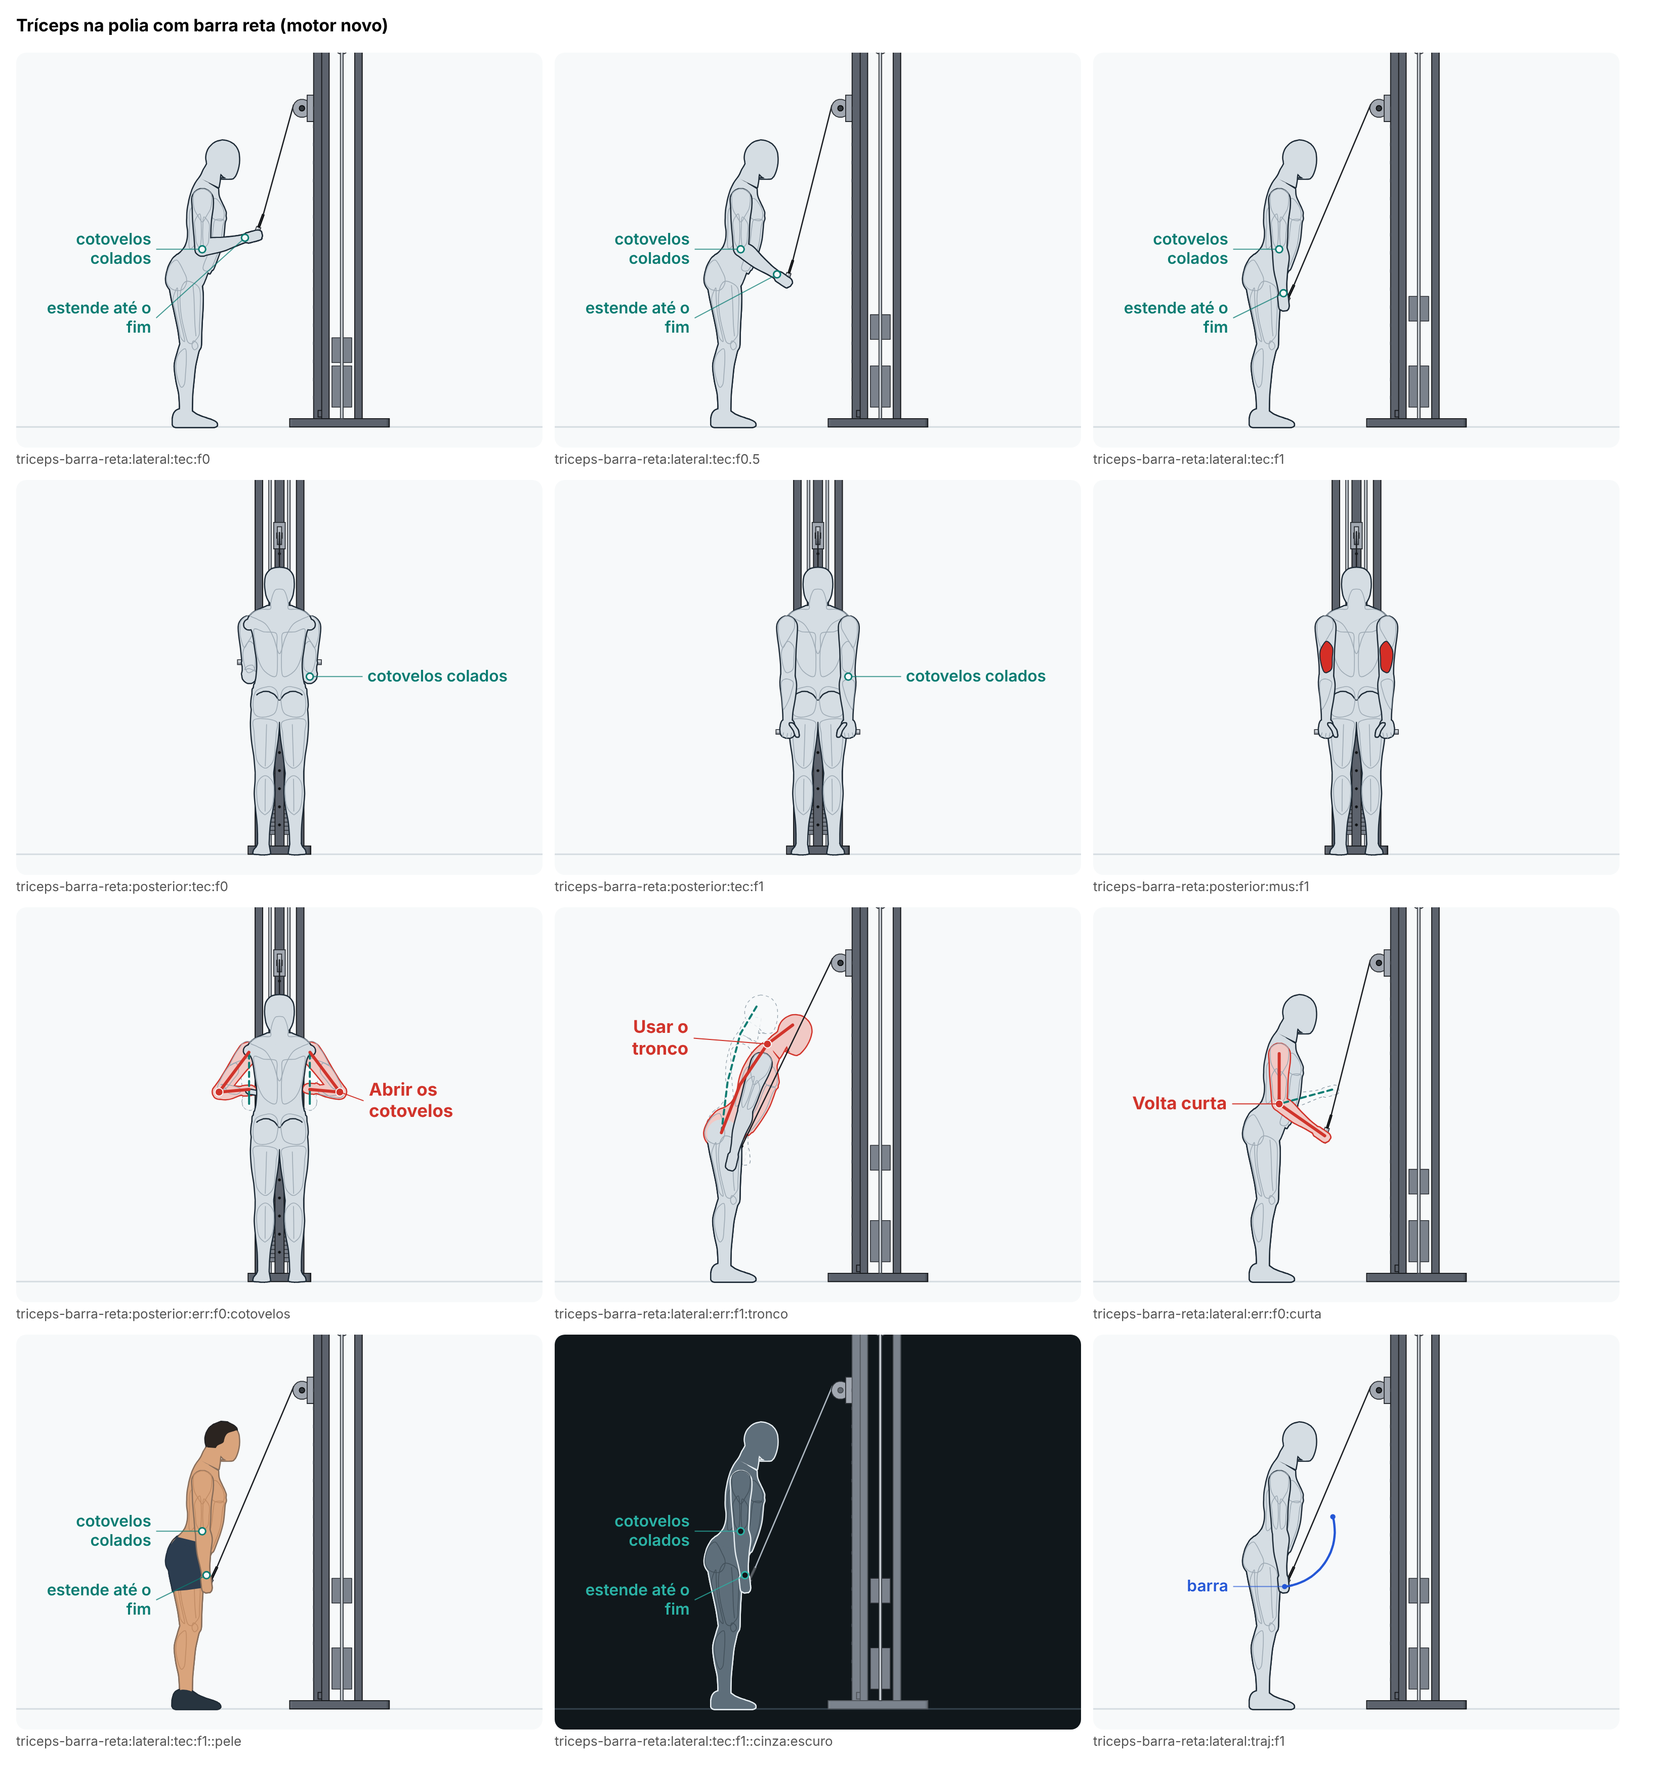
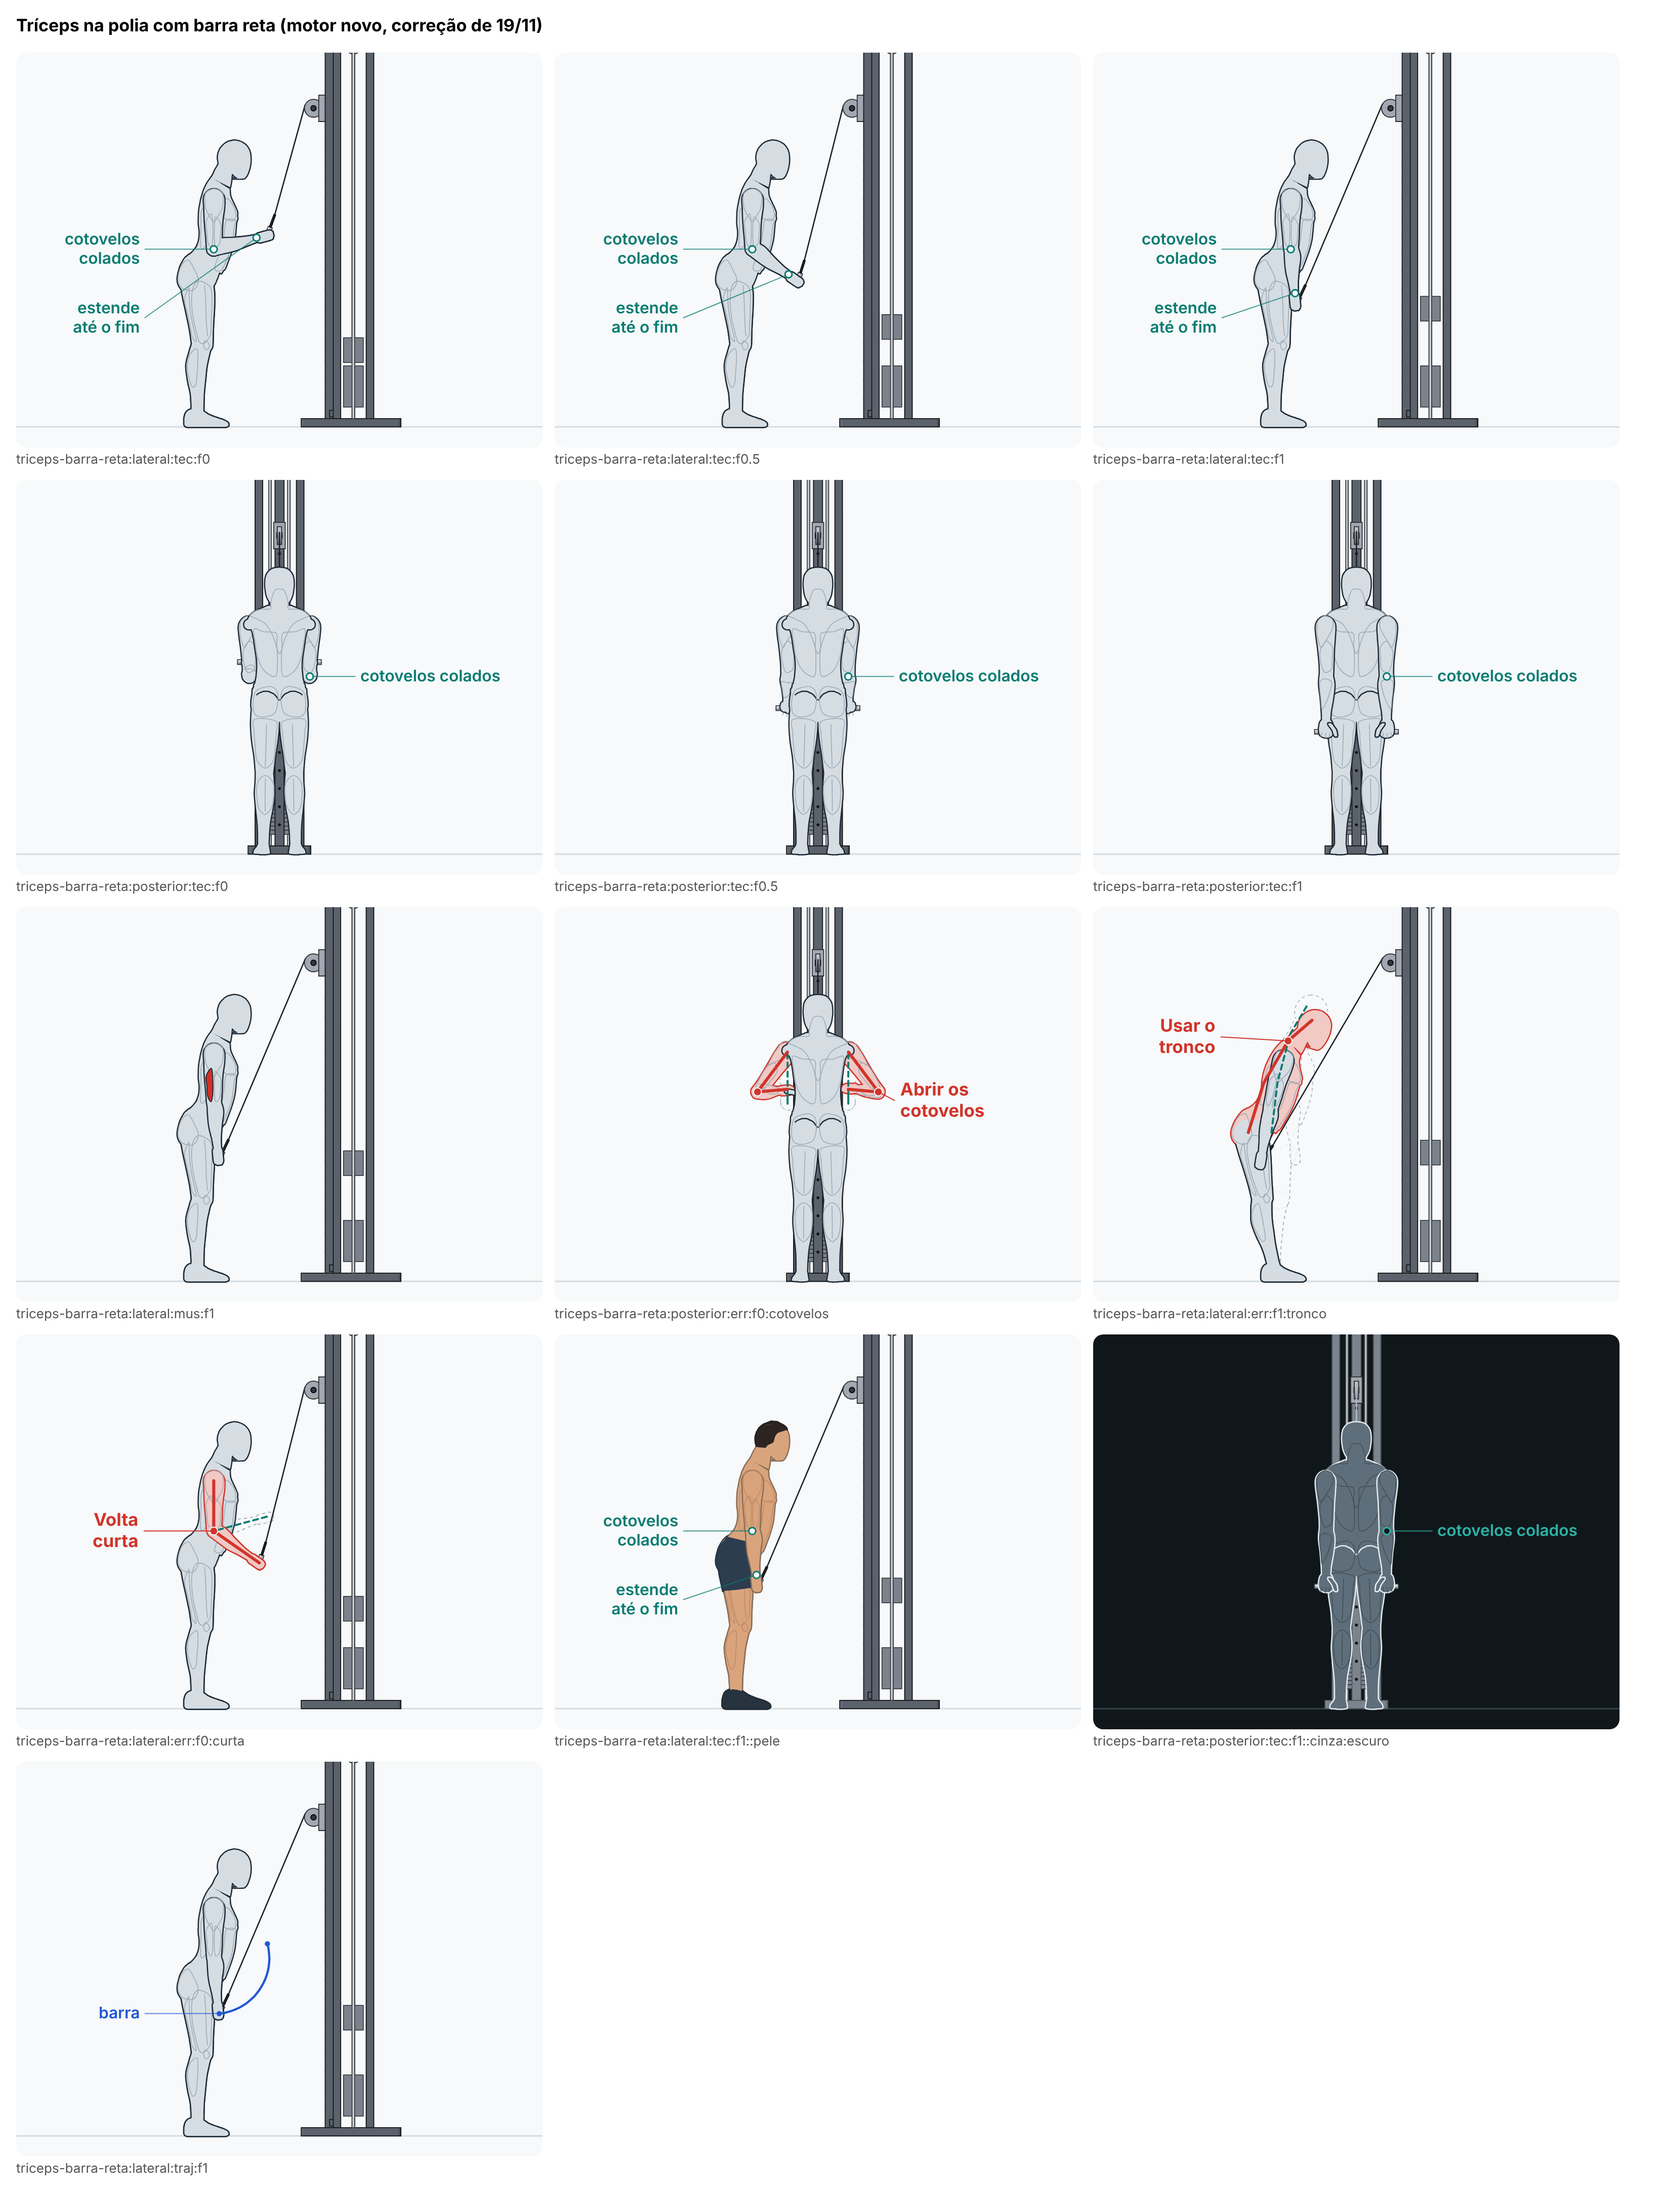
Tríceps com barra reta: no erro "Usar o tronco", o cabo não atravessa a cabeça (auditoria M6)
O erro debruçava o tronco 34° com o quadril parado, e a cabeça e o peito
entravam na linha do cabo (até 8,8 cm na cabeça). Agora o tronco debruça 30° e
o quadril vai 14 cm para trás (linha nova da ficha, `erro.tronco.quadrilAtras`):
a cabeça e o peito ficam atrás do cabo, que passa a 0,6 cm do peito.

Regra comum `cabos-fora-do-corpo-nos-erros` ligada nesta ficha: em cada erro,
em seis instantes, cada cabo e fita do engate contra o corpo inteiro (fora as
mãos que seguram), até 0,5 cm. Falha no estado antigo, passa no novo.

Claude-Session: https://claude.ai/code/session_01YRzts8DBGbsca9onebcMt1

diff --git a/src/engine/novo/exercicios/triceps-barra-reta.ts b/src/engine/novo/exercicios/triceps-barra-reta.ts
@@ -40,9 +40,9 @@ function pelveParaInclinar(corpo: Corpo, inclina: number, toracica: number): num
   }, -30, 70, 30);
 }
 
-function troncoEPernas(corpo: Corpo, pelveY: number, frente: number, toracica: number): { t: Tronco; pernas: Record<Lado, PosePerna> } {
+function troncoEPernas(corpo: Corpo, pelveY: number, frente: number, toracica: number, atras = 0): { t: Tronco; pernas: Record<Lado, PosePerna> } {
   const w = f('pes.meiaDistancia');
-  const t = resolverTronco(corpo, { pelve: [0, pelveY, f('pelve.z')], frente, toracica, cervical: f('cervical'), cabeca: f('cabeca') });
+  const t = resolverTronco(corpo, { pelve: [0, pelveY, f('pelve.z') - atras], frente, toracica, cervical: f('cervical'), cabeca: f('cabeca') });
   const perna = (k: Lado): PosePerna => ({ pe: { bola: [sinal(k) * w, 0, f('pe.z')], dir: [sinal(k) * 0.12, 0, 1], calc: 0 }, polo: [sinal(k) * 0.1, 0, 1] });
   return { t, pernas: { R: perna('R'), L: perna('L') } };
 }
@@ -99,13 +99,15 @@ function pedido(c: Pick<Calibrado, 'cotBaixo'>, u: number, erro?: string) {
     cotovelo: mix(alto, c.cotBaixo, u),
     inclina: erro === 'tronco' ? mix(f('tronco.inclinacao'), f('erro.tronco.inclinacao'), u) : f('tronco.inclinacao'),
     toracica: erro === 'tronco' ? u * f('erro.tronco.toracica') : 0,
+    // ao debruçar, o quadril vai para trás e a cabeça fica atrás do cabo (até 19/11 o cabo atravessava a cabeça)
+    atras: erro === 'tronco' ? u * f('erro.tronco.quadrilAtras') : 0,
   };
 }
 
 function montar(corpo: Corpo, c: Pick<Calibrado, 'pelveY' | 'frente' | 'cotBaixo'>, u: number, erro?: string): Esq {
   const p = pedido(c, u, erro);
   const frente = erro === 'tronco' ? pelveParaInclinar(corpo, p.inclina, p.toracica) : c.frente;
-  const { t, pernas } = troncoEPernas(corpo, c.pelveY, frente, p.toracica);
+  const { t, pernas } = troncoEPernas(corpo, c.pelveY, frente, p.toracica, p.atras);
   const certo = resolverMembros(t, bracos(t, p.cotovelo), pernas);
   if (erro !== 'cotovelos') return certo;
   // os cotovelos abrem: as mãos seguem na barra, no mesmo caminho, e o cotovelo gira para fora em volta da linha do

diff --git a/docs/revisoes/animacao-nova/lote-A5/triceps-barra-reta.md b/docs/revisoes/animacao-nova/lote-A5/triceps-barra-reta.md
@@ -55,3 +55,30 @@ Não há correção registrada para este exercício. Vale a da rosca na polia (0
 - **O rótulo "estende até o fim"** (no punho) tem o fio cruzando o antebraço no quadro de cima, porque o lado da torre não tem espaço e os dois textos ficam à esquerda; o mesmo acontece no "só o antebraço se mexe" da rosca na polia aprovada. Tentei pôr o texto acima do corpo: o quadro abria até mostrar a coluna inteira e o fio cruzava a cabeça.
 - **De trás, a barra não aparece** no quadro de cima (fica atrás do corpo). O erro de abrir os cotovelos se lê pelos braços.
 - **A força do cabo não entra no equilíbrio**, como em todas as animações na polia.
+
+## Correção de 19/11 (auditoria)
+
+A auditoria das fases A e B (M6) achou que, no erro "Usar o tronco", de lado, o cabo atravessa a cabeça (7,8 cm) e o tronco (3,7 cm). A animação saiu da aprovação até a correção.
+
+**A causa.** O erro debruçava o tronco até 34° com o quadril parado: a cabeça e o peito iam à frente, para dentro da linha do cabo, que continua reto da barra à roldana, no alto e à frente.
+
+**A mudança** (só no erro, dentro do que a ficha diz: "o tronco debruça sobre a barra enquanto as mãos descem"):
+
+1. O tronco debruça até 30° (era 34°; `erro.tronco.inclinacao`).
+2. Linha nova da ficha, `erro.tronco.quadrilAtras` (14 cm, selo desenho): ao debruçar, o quadril vai para trás (os pés parados), como quem se apoia na barra; a cabeça e o peito ficam atrás do cabo.
+
+**A regra nova** (comum, `cabos-fora-do-corpo-nos-erros`, em `regras/vistas-do-guia.ts`, ligada só nas fichas do tríceps com barra reta, da puxada com barra reta e da rosca de costas): em cada erro, em 6 instantes (0, 1/4, 1/2, 3/4, 1 e o instante do erro), cada cabo e cada fita do engate (os fios do quadro, fora os riscos da pilha), de meio em meio centímetro, contra o corpo inteiro (os dois lados): quanto entram em cada parte, medido na elipse do anel do Boneco interpolado ali. Não podem entrar mais de 0,5 cm. Ficam de fora as mãos que seguram e, delas, o antebraço a até 8 cm do punho, como na regra do cabo no ciclo (`polia-braco-cabos-livres-do-corpo`, que só olha o ciclo certo).
+
+| | antes (`1828c0e`) | depois |
+|---|---|---|
+| "Usar o tronco": quanto o cabo entra no corpo (pior instante) | **8,8 cm (cabeça)** | passa a 0,6 cm do peito |
+| "Abrir os cotovelos" e "Volta curta" | passa a 2,6 cm da cabeça | igual |
+| o tronco no fim do erro | 34° da vertical, quadril parado | 30°, quadril 14 cm para trás (o certo: 15°) |
+
+(A auditoria mediu 7,8 cm em u = 1; a regra mede seis instantes e acha 8,8 cm. A diferença é a amostragem.)
+
+Rodada no estado de antes (o exercício e a ficha de `1828c0e`, com a regra nova), a conferência dá **1 falha** (esta regra). No estado novo: **0 falhas**, os mesmos avisos de antes.
+
+**Olhado nos quadros** (`quadros/triceps-barra-reta.png`): no erro, de lado, o tronco vermelho debruça sobre a barra com o quadril para trás, e o cabo sobe da barra rente ao peito e à frente do rosto, sem cruzá-los; o tronco certo, tracejado, fica bem mais em pé. Os outros dois erros, de trás e de lado, e o ciclo não mudaram.
+
+**O que ainda não ficou bom.** O cabo passa a 0,6 cm do peito no fim do erro: é o que a geometria deixa (a barra desce rente às coxas e o cabo sobe dela quase junto ao corpo). O debruçar é um pouco menor que antes (30° contra 34°), compensado pelo quadril para trás.
